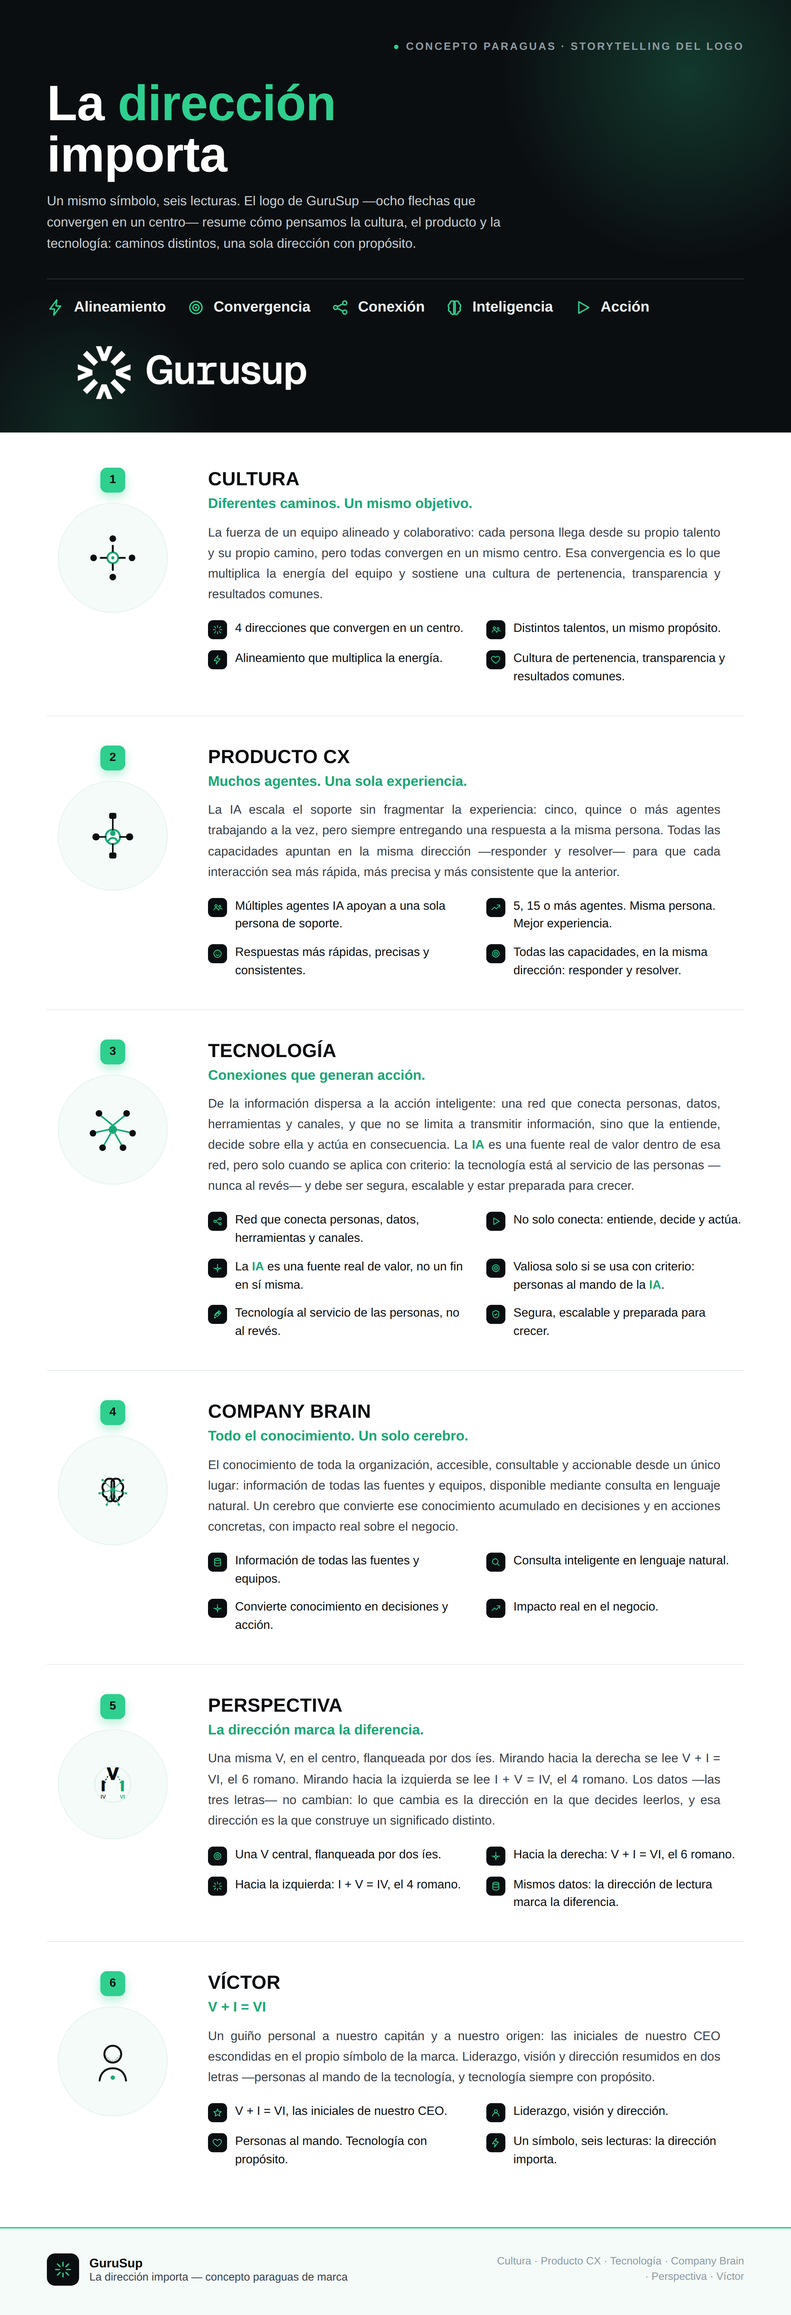
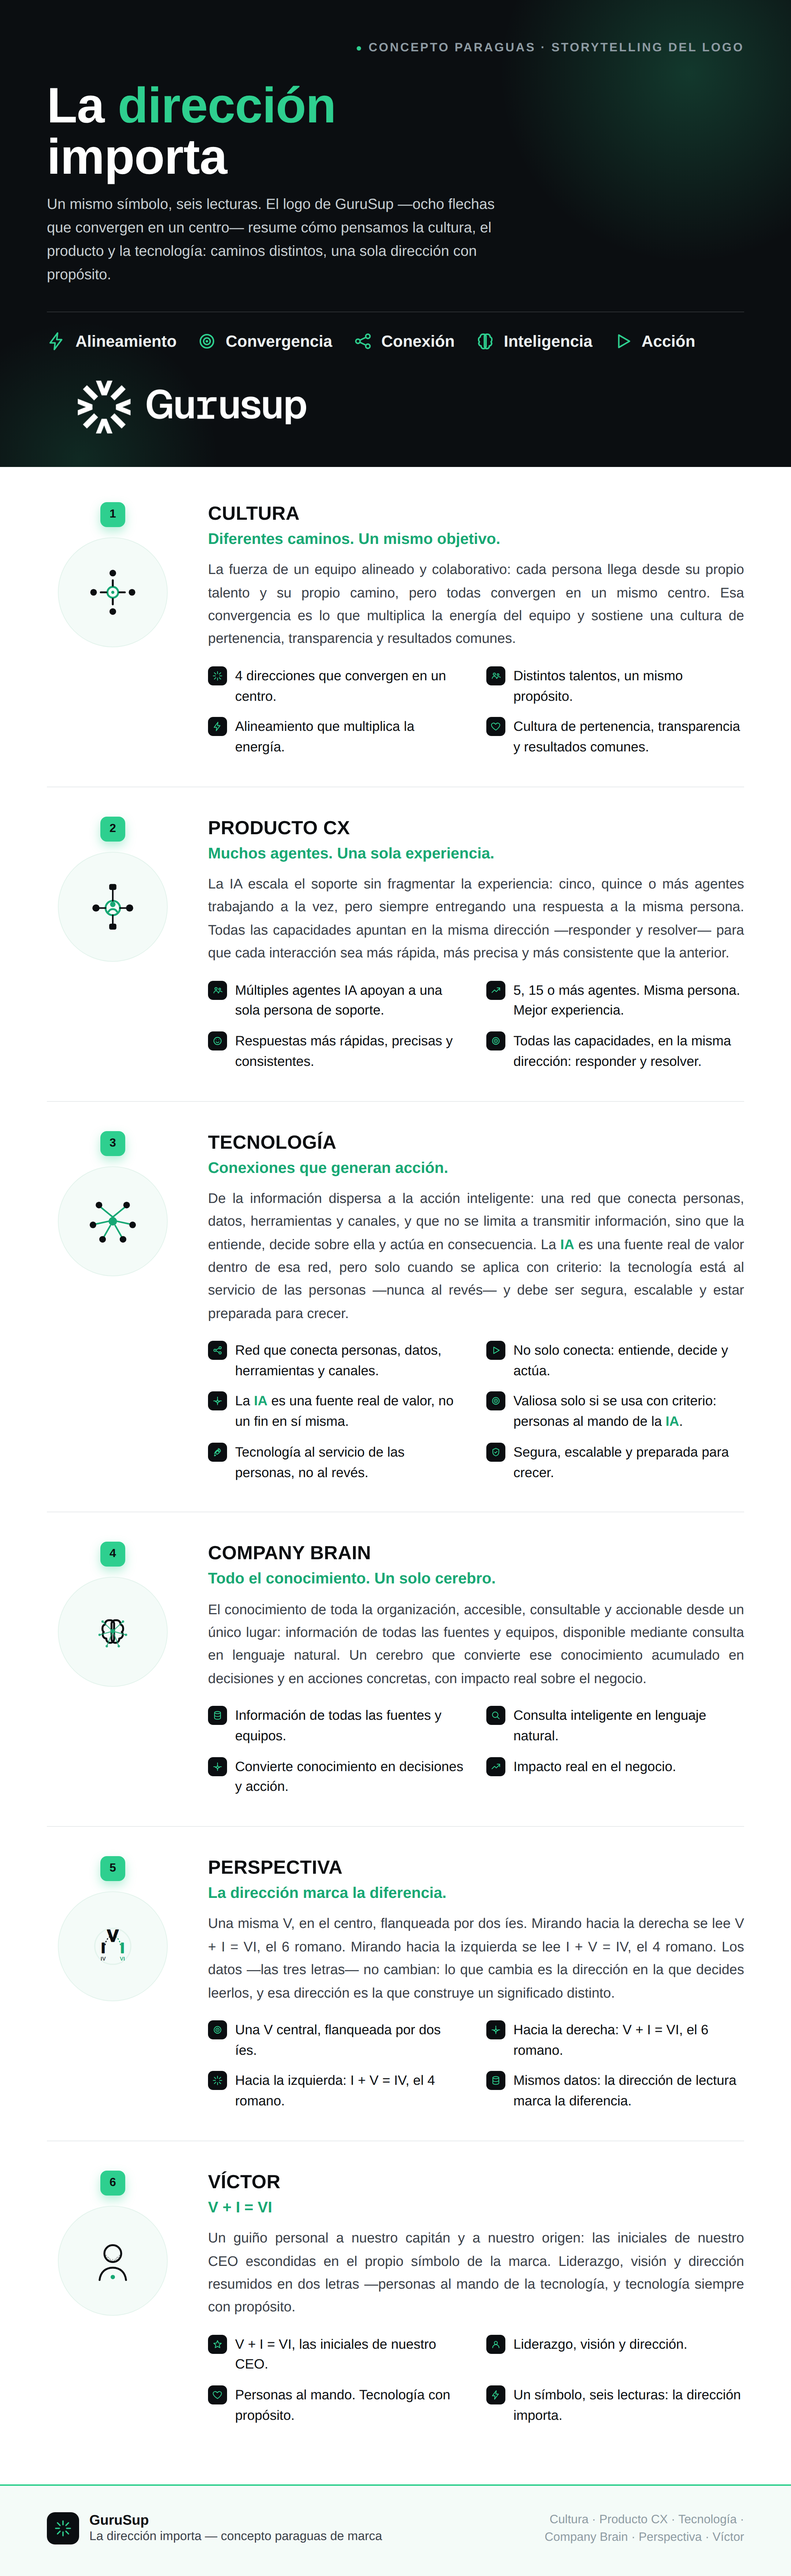
Sube otros 2px el cuerpo de texto (sin tocar el título)
Segunda pasada de aumento de tamaño en kicker, conceptos del hero,
taglines, párrafos, bullets y pie de página. El h1 "La dirección
importa" queda igual.

Claude-Session: https://claude.ai/code/session_019WmuM4uE7b9LjzLhY7VJCf

diff --git a/infografia/gurusup-direccion-importa.html b/infografia/gurusup-direccion-importa.html
@@ -55,7 +55,7 @@
   .logo-lockup .logo-word{ height:48px; display:block; }
   .kicker{
     display:flex; align-items:center; gap:10px;
-    font-size:14.5px; letter-spacing:2.2px; font-weight:700;
+    font-size:16.5px; letter-spacing:2.2px; font-weight:700;
     color:#8E9BA3; text-transform:uppercase;
   }
   .kicker .dot{width:6px;height:6px;border-radius:50%;background:var(--green);}
@@ -69,7 +69,7 @@
   .hero p.lead{
     position:relative; z-index:2;
     max-width:640px; margin:14px 0 0;
-    color:#C7CED2; font-size:18px; line-height:1.6;
+    color:#C7CED2; font-size:20px; line-height:1.6;
   }
   .concept-row{
     position:relative; z-index:2;
@@ -77,8 +77,8 @@
     margin-top:34px; padding-top:26px;
     border-top:1px solid rgba(255,255,255,.14);
   }
-  .concept-item{ display:flex; align-items:center; gap:12px; color:#EDF1F2; font-size:20px; font-weight:600; }
-  .concept-item svg{ width:25px;height:25px; flex:none; color:var(--green); }
+  .concept-item{ display:flex; align-items:center; gap:12px; color:#EDF1F2; font-size:22px; font-weight:600; }
+  .concept-item svg{ width:27px;height:27px; flex:none; color:var(--green); }
 
   /* ===== SECTIONS ===== */
   .sections{ padding:8px 64px 40px; }
@@ -111,12 +111,12 @@
   .content-col .sd .hl{ color:var(--green-dark); font-weight:800; }
   .bullet p .hl{ color:var(--green-dark); font-weight:800; }
   .content-col .tagline{
-    color:var(--green-dark); font-weight:700; font-size:19px;
+    color:var(--green-dark); font-weight:700; font-size:21px;
     margin:0 0 12px; line-height:1.35;
   }
   .content-col .sd{
     max-width:74ch;
-    color:var(--ink-soft); font-size:17px; line-height:1.65;
+    color:var(--ink-soft); font-size:19px; line-height:1.65;
     text-align:justify; text-justify:inter-word;
     text-wrap:pretty;
     margin:0 0 20px;
@@ -131,7 +131,7 @@
     margin-top:1px;
   }
   .bullet .ic svg{ width:14px;height:14px; color:var(--green); }
-  .bullet p{ margin:0; font-size:16.5px; line-height:1.5; color:var(--ink); }
+  .bullet p{ margin:0; font-size:18.5px; line-height:1.5; color:var(--ink); }
 
   /* ===== FOOTER ===== */
   .footer{
@@ -146,9 +146,9 @@
     display:flex;align-items:center;justify-content:center;
   }
   .footer-left .sq svg{ width:24px;height:24px; }
-  .footer-left b{ display:block; font-size:17px; }
-  .footer-left span{ display:block; font-size:15px; color:var(--ink-soft); }
-  .footer-right{ font-size:14.5px; color:#8E9BA3; text-align:right; max-width:340px; line-height:1.5; }
+  .footer-left b{ display:block; font-size:19px; }
+  .footer-left span{ display:block; font-size:17px; color:var(--ink-soft); }
+  .footer-right{ font-size:16.5px; color:#8E9BA3; text-align:right; max-width:340px; line-height:1.5; }
 </style>
 </head>
 <body>
